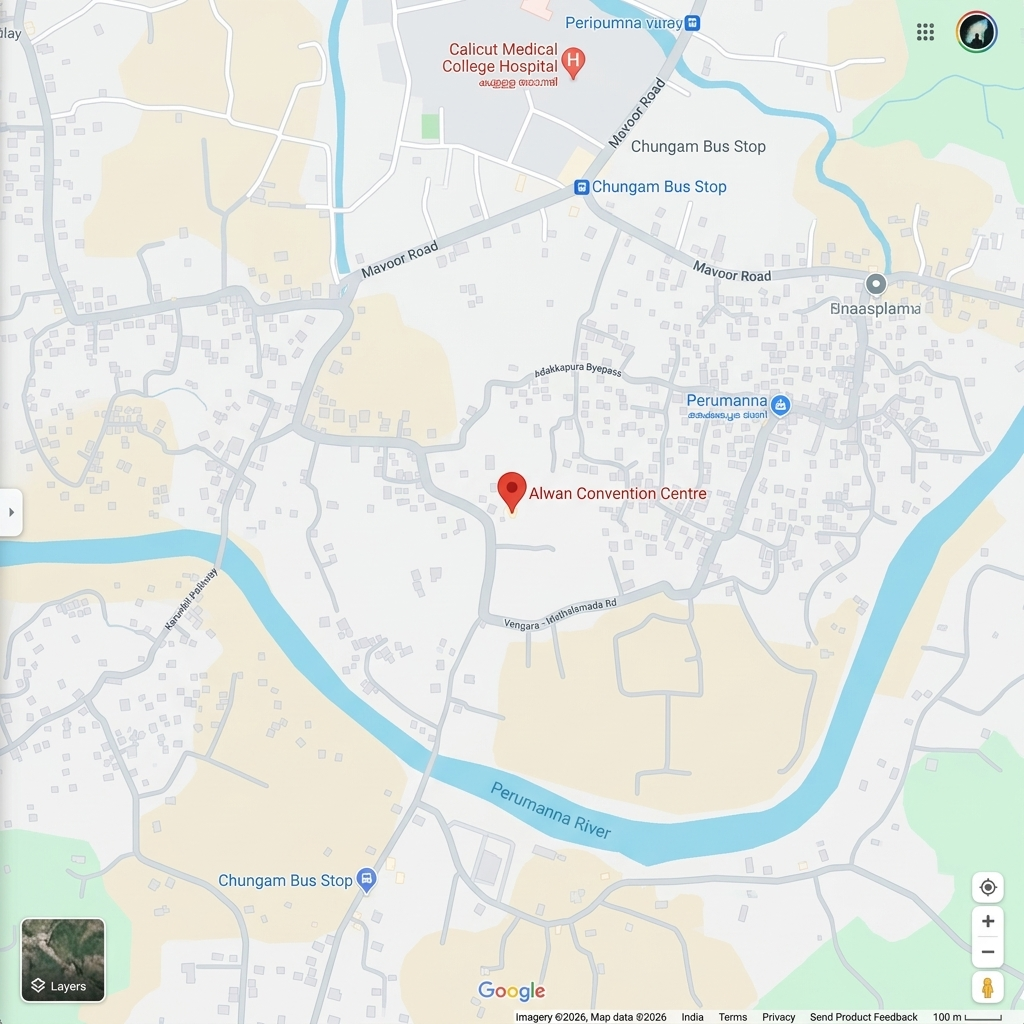
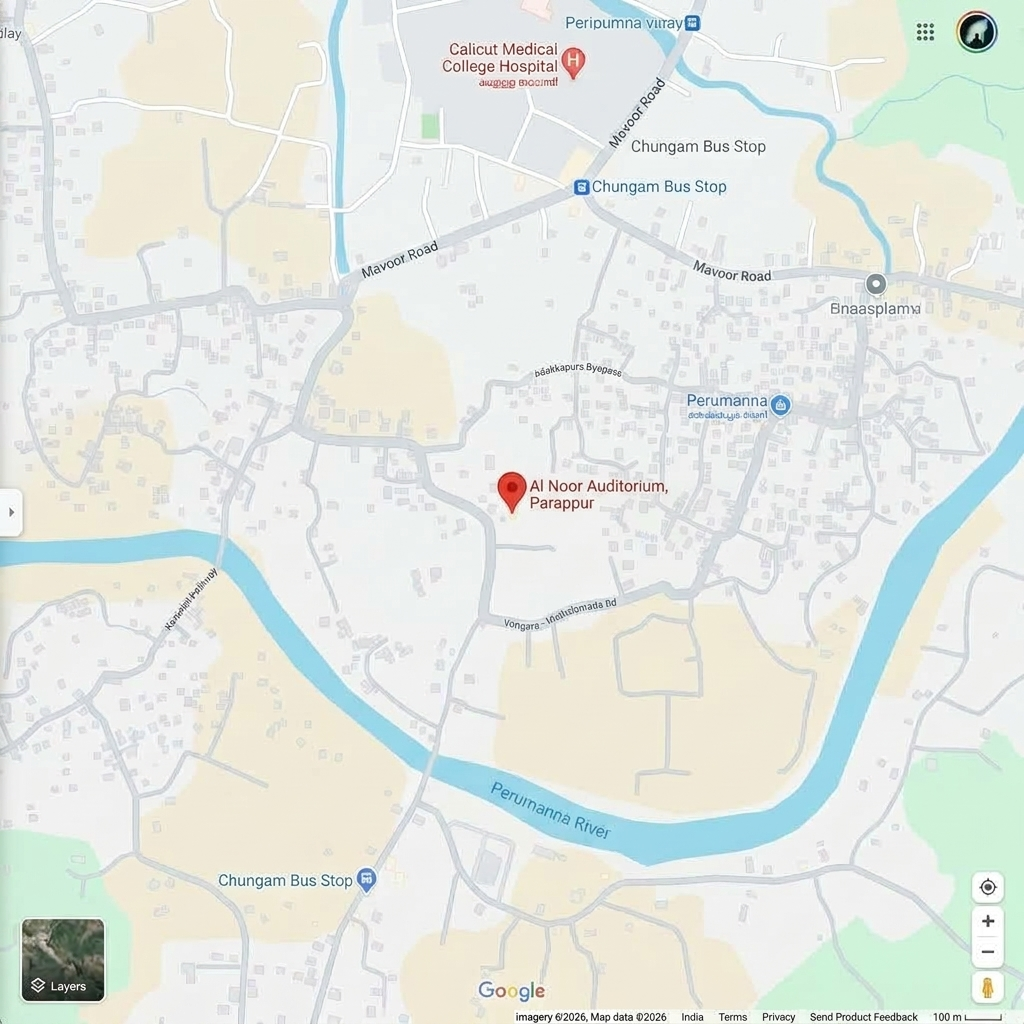
feat: update wedding invitation details and assets for Mohammed Niyas and Fathima Fahma

diff --git a/index.html b/index.html
@@ -19,31 +19,31 @@
        ============================================================ -->
 
   <!-- Page title (also used by OG as fallback) -->
-  <title>Sharafali & Fasna — Wedding Invitation</title>
+  <title>Mohammed Niyas &amp; Fathima Fahma — Wedding Invitation</title>
 
   <!-- Basic SEO description -->
   <meta name="description"
-    content="You are warmly invited to the Wedding of Sharafali &amp; Fasna on Thursday, August 20, 2026. Nikkah: 10:30 AM at Alwan Convention Centre, Perumanna. Wedding Reception: 12:00 PM at PCM Auditorium, Valiyora, Vengara." />
+    content="You are warmly invited to the Nikkah Ceremony of Mohammed Niyas &amp; Fathima Fahma on Thursday, September 17, 2026 at 10:00 AM at Al Noor Auditorium, Parappur, Vengara." />
 
   <!-- ── Open Graph (Facebook, WhatsApp, Telegram, LinkedIn, etc.) ── -->
   <meta property="og:type" content="website" />
   <meta property="og:site_name" content="Wedding Invitation" />
-  <meta property="og:title" content="Sharafali &amp; Fasna — Wedding Invitation" />
+  <meta property="og:title" content="Mohammed Niyas &amp; Fathima Fahma — Wedding Invitation" />
   <meta property="og:description"
-    content="You are warmly invited to the Wedding of Sharafali &amp; Fasna on Thursday, August 20, 2026. Nikkah: 10:30 AM at Alwan Convention Centre, Perumanna. Wedding Reception: 12:00 PM at PCM Auditorium, Valiyora, Vengara." />
+    content="You are warmly invited to the Nikkah Ceremony of Mohammed Niyas &amp; Fathima Fahma on Thursday, September 17, 2026 at 10:00 AM at Al Noor Auditorium, Parappur, Vengara." />
   <meta property="og:url" content="https://swalih-rahman-and-ayisha-adabiyya.vercel.app/" />
-  <meta property="og:image" content="https://swalih-rahman-and-ayisha-adabiyya.vercel.app/blank.png" />
-  <meta property="og:image:type" content="image/png" />
-  <meta property="og:image:width" content="1" />
-  <meta property="og:image:height" content="1" />
+  <meta property="og:image" content="cover.jpeg" />
+  <meta property="og:image:secure_url" content="cover.jpeg" />
+  <meta property="og:image:type" content="image/jpeg" />
+  <meta property="og:image:alt" content="Mohammed Niyas &amp; Fathima Fahma — Wedding Invitation" />
   <meta property="og:locale" content="en_US" />
 
   <!-- ── Twitter / X Card ── -->
-  <meta name="twitter:card" content="summary" />
-  <meta name="twitter:title" content="Sharafali &amp; Fasna — Wedding Invitation" />
+  <meta name="twitter:card" content="summary_large_image" />
+  <meta name="twitter:title" content="Mohammed Niyas &amp; Fathima Fahma — Wedding Invitation" />
   <meta name="twitter:description"
-    content="You are warmly invited to the Wedding of Sharafali &amp; Fasna on Thursday, August 20, 2026. Nikkah: 10:30 AM at Alwan Convention Centre, Perumanna. Wedding Reception: 12:00 PM at PCM Auditorium, Valiyora, Vengara." />
-  <meta name="twitter:image" content="https://swalih-rahman-and-ayisha-adabiyya.vercel.app/blank.png" />
+    content="You are warmly invited to the Nikkah Ceremony of Mohammed Niyas &amp; Fathima Fahma on Thursday, September 17, 2026 at 10:00 AM at Al Noor Auditorium, Parappur, Vengara." />
+  <meta name="twitter:image" content="cover.jpeg" />
 
   <!-- Canonical URL — root, no /index.html -->
   <link rel="canonical" href="https://swalih-rahman-and-ayisha-adabiyya.vercel.app/" />
@@ -518,18 +518,18 @@
       width: 100%;
       height: 100%;
       object-fit: cover;
-      object-position: center 20%;
+      object-position: center 65%;
     }
 
-    /* Dark overlay so text is legible over the photo */
+    /* Subtle overlay so text is legible while image remains crisp and fully visible */
     .hero-bg::after {
       content: '';
       position: absolute;
       inset: 0;
       background: linear-gradient(to bottom,
-          rgba(30, 24, 14, 0.35) 0%,
-          rgba(30, 24, 14, 0.45) 50%,
-          rgba(30, 24, 14, 0.65) 100%);
+          rgba(30, 24, 14, 0.28) 0%,
+          rgba(30, 24, 14, 0.18) 45%,
+          rgba(30, 24, 14, 0.48) 100%);
     }
 
     .hero-content {
@@ -741,22 +741,41 @@
       flex-direction: column;
       align-items: center;
       text-align: center;
-      gap: 1.1rem;
+      gap: 1rem;
     }
 
     .person-img {
-      width: clamp(155px, 32vw, 230px);
-      height: clamp(155px, 32vw, 230px);
+      position: relative;
+      width: clamp(140px, 30vw, 190px);
+      height: clamp(140px, 30vw, 190px);
       border-radius: 50%;
-      overflow: hidden;
-      border: 3px solid var(--gold-light);
-      box-shadow: 0 8px 40px rgba(61, 90, 62, 0.12);
+      display: flex;
+      align-items: center;
+      justify-content: center;
+      background: #FAF7F2;
+      border: 1.5px solid rgba(200, 163, 90, 0.4);
+      box-shadow: 0 4px 20px rgba(81, 19, 12, 0.07);
+      transition: transform 0.4s ease, border-color 0.4s ease, box-shadow 0.4s ease;
     }
 
-    .person-img img {
+    .person-card:hover .person-img {
+      transform: translateY(-4px);
+      border-color: var(--gold);
+      box-shadow: 0 8px 28px rgba(81, 19, 12, 0.12);
+    }
+
+    .emblem-svg {
       width: 100%;
       height: 100%;
-      object-fit: cover;
+      display: block;
+    }
+
+    .emblem-text {
+      font-family: 'Playfair Display', Georgia, serif;
+      font-size: 54px;
+      font-weight: 500;
+      font-style: italic;
+      fill: var(--green);
     }
 
     .person-role {
@@ -1396,13 +1415,13 @@
 
         <!-- Names in Great Vibes — mirrors the hero -->
         <div class="ld-names">
-          Sharafali
+          Mohammed Niyas
           <span class="ld-amp">&</span>
-          Fasna
+          Fathima Fahma
         </div>
 
         <!-- Date — mirrors hero-date -->
-        <p class="ld-date">Nikkah &amp; Wedding &nbsp;·&nbsp; August 20, 2026</p>
+        <p class="ld-date">Nikkah Ceremony &nbsp;·&nbsp; September 17, 2026</p>
 
         <!-- bottom gold bar -->
         <div class="ld-card-bar-btm"></div>
@@ -1449,17 +1468,17 @@
     <!-- ===== HERO — full background image ===== -->
     <section id="hero">
       <div class="hero-bg">
-        <img src="hero.jpg" alt="Sharafali & Fasna" />
+        <img src="hero.jpg" alt="Mohammed Niyas &amp; Fathima Fahma" />
       </div>
 
       <div class="hero-content">
-        <p class="hero-eyebrow">Kindly join us for the Wedding of</p>
+        <p class="hero-eyebrow">Kindly join us for the Nikkah Ceremony of</p>
         <div class="hero-names">
-          Sharafali
+          Mohammed Niyas
           <span class="hero-amp">&</span>
-          Fasna
+          Fathima Fahma
         </div>
-        <p class="hero-date">August 20, 2026 &nbsp;·&nbsp; 10:30 AM</p>
+        <p class="hero-date">September 17, 2026 &nbsp;·&nbsp; 10:00 AM</p>
         <!-- Guest greeting on hero if present -->
         <div id="hero-guest-wrap" style="display: none; margin-top: 1.5rem; text-align: center; animation: heroFadeUp 0.9s cubic-bezier(0.22, 1, 0.36, 1) 1.85s forwards; opacity: 0;">
           <p style="font-size: 0.68rem; letter-spacing: 0.28em; text-transform: uppercase; color: rgba(250, 247, 242, 0.6);">Warm Welcome To</p>
@@ -1536,66 +1555,24 @@
           <!-- GROOM -->
           <div class="person-card reveal">
             <div class="person-img">
-              <svg viewBox="0 0 100 100" class="avatar-svg" aria-label="Groom Avatar" style="width: 100%; height: 100%; display: block; background: var(--ivory-dark);">
-                <defs>
-                  <radialGradient id="groomGrad" cx="50%" cy="40%" r="60%" fx="50%" fy="30%">
-                    <stop offset="0%" stop-color="#FAF7F2" stop-opacity="0.8" />
-                    <stop offset="100%" stop-color="var(--ivory-dark)" />
-                  </radialGradient>
-                </defs>
-                <circle cx="50" cy="50" r="50" fill="url(#groomGrad)" />
-                <circle cx="50" cy="38" r="16" fill="var(--green)" opacity="0.15" />
-                <circle cx="50" cy="38" r="16" fill="none" stroke="var(--green)" stroke-width="1.5" />
-                <path d="M 22 80 C 22 62, 32 56, 50 56 C 68 56, 78 62, 78 80 Z" fill="var(--green)" opacity="0.15" />
-                <path d="M 22 80 C 22 62, 32 56, 50 56 C 68 56, 78 62, 78 80" fill="none" stroke="var(--green)" stroke-width="1.5" />
-                <!-- Mandarin collar (Sherwani) -->
-                <path d="M 42 56 Q 50 60 58 56" fill="none" stroke="var(--gold)" stroke-width="2" stroke-linecap="round" />
-                <path d="M 42 58 L 42 64 Q 50 68 58 64 L 58 58" fill="none" stroke="var(--gold)" stroke-width="1" opacity="0.5" />
-                <!-- Buttons -->
-                <circle cx="50" cy="63" r="1.5" fill="var(--gold)" />
-                <circle cx="50" cy="69" r="1.5" fill="var(--gold)" />
-                <circle cx="50" cy="75" r="1.5" fill="var(--gold)" />
+              <svg viewBox="0 0 120 120" class="emblem-svg" aria-label="Mohammed Niyas - Groom Logo">
+                <circle cx="60" cy="60" r="52" fill="none" stroke="var(--gold-light)" stroke-width="1" opacity="0.55" />
+                <text x="60" y="62" class="emblem-text" text-anchor="middle" dominant-baseline="central">N</text>
               </svg>
             </div>
             <span class="person-role">Groom</span>
-            <h3 class="person-name">Sharafali</h3>
-            <p class="person-lineage">
-              Son of<br />
-              Mr. Abdu Razack &amp; Mrs. Shemeema
-            </p>
+            <h3 class="person-name">Mohammed Niyas</h3>
           </div>
           <!-- BRIDE -->
           <div class="person-card reveal">
             <div class="person-img">
-              <svg viewBox="0 0 100 100" class="avatar-svg" aria-label="Bride Avatar" style="width: 100%; height: 100%; display: block; background: var(--ivory-dark);">
-                <defs>
-                  <radialGradient id="brideGrad" cx="50%" cy="40%" r="60%" fx="50%" fy="30%">
-                    <stop offset="0%" stop-color="#FAF7F2" stop-opacity="0.8" />
-                    <stop offset="100%" stop-color="var(--ivory-dark)" />
-                  </radialGradient>
-                </defs>
-                <circle cx="50" cy="50" r="50" fill="url(#brideGrad)" />
-                <!-- Silhouette draped hijab covering head and shoulders -->
-                <path d="M 50 20 C 37 20, 31 32, 31 46 C 31 59, 21 68, 21 80 C 25 80, 75 80, 79 80 C 79 68, 69 59, 69 46 C 69 32, 63 20, 50 20 Z" fill="var(--green)" opacity="0.15" />
-                <path d="M 50 20 C 37 20, 31 32, 31 46 C 31 59, 21 68, 21 80" fill="none" stroke="var(--green)" stroke-width="1.5" />
-                <path d="M 50 20 C 63 20, 69 32, 69 46 C 69 59, 79 68, 79 80" fill="none" stroke="var(--green)" stroke-width="1.5" />
-                <!-- Gold lace border on headscarf -->
-                <path d="M 33 46 C 35 25, 65 25, 67 46" fill="none" stroke="var(--gold)" stroke-width="2" />
-                <path d="M 31 46 C 33 22, 67 22, 69 46" fill="none" stroke="var(--gold)" stroke-width="1" opacity="0.5" />
-                <!-- Forehead ornament (Maang Tikka) -->
-                <line x1="50" y1="22" x2="50" y2="31" stroke="var(--gold)" stroke-width="1.2" />
-                <circle cx="50" cy="34" r="2" fill="var(--gold)" />
-                <!-- Elegant necklace details -->
-                <path d="M 40 66 C 40 71, 60 71, 60 66" fill="none" stroke="var(--gold)" stroke-width="1.5" stroke-linecap="round" />
-                <path d="M 37 71 C 37 77, 63 77, 63 71" fill="none" stroke="var(--gold)" stroke-width="1" stroke-linecap="round" opacity="0.7" />
+              <svg viewBox="0 0 120 120" class="emblem-svg" aria-label="Fathima Fahma - Bride Logo">
+                <circle cx="60" cy="60" r="52" fill="none" stroke="var(--gold-light)" stroke-width="1" opacity="0.55" />
+                <text x="60" y="62" class="emblem-text" text-anchor="middle" dominant-baseline="central">F</text>
               </svg>
             </div>
             <span class="person-role">Bride</span>
-            <h3 class="person-name">Fasna</h3>
-            <p class="person-lineage">
-              Daughter of<br />
-              Mr. Moideen Kutty &amp; Mrs. Ramla
-            </p>
+            <h3 class="person-name">Fathima Fahma</h3>
           </div>
         </div>
       </div>
@@ -1657,64 +1634,31 @@
         <p class="sec-sub">Join us as we celebrate this cherished occasion.</p>
 
         <!-- EVENTS GRID -->
-        <div class="events-grid">
+        <div class="events-grid" style="display: flex; justify-content: center;">
           
           <!-- NIKKAH CARD -->
-          <div class="event-card reveal">
+          <div class="event-card reveal" style="width: 100%; max-width: 520px;">
             <div class="ev-name">Nikkah</div>
             <div class="ev-rows">
               <div class="ev-row">
                 <span class="ev-icon">&#x1F4C5;</span>
-                <span class="ev-text">Thursday, August 20th, 2026</span>
+                <span class="ev-text">Thursday, September 17th, 2026</span>
               </div>
               <div class="ev-row">
                 <span class="ev-icon">&#x23F0;</span>
-                <span class="ev-text">10:30 AM</span>
+                <span class="ev-text">10:00 AM</span>
               </div>
               <div class="ev-row">
                 <span class="ev-icon">&#x1F3E2;</span>
-                <span class="ev-text">Alwan Convention Centre<br />Perumanna, Mundiyanthara</span>
+                <span class="ev-text">Al Noor Auditorium<br />Parappur, Vengara</span>
               </div>
             </div>
 
             <!-- Venue map photo + Google Maps button -->
             <div class="map-container">
-              <img src="map_nikkah.png" alt="Alwan Convention Centre Perumanna location map" />
+              <img src="map_nikkah.png" alt="Al Noor Auditorium, Parappur, Vengara location map" />
             </div>
-            <a href="https://www.google.com/maps/search/?api=1&query=Alwan+Convention+Centre+Perumanna+Mundiyanthara" target="_blank" rel="noopener noreferrer"
-              class="map-open-btn">
-              <svg width="14" height="14" viewBox="0 0 24 24" fill="none" stroke="currentColor" stroke-width="2.5"
-                stroke-linecap="round" stroke-linejoin="round">
-                <path d="M21 10c0 7-9 13-9 13S3 17 3 10a9 9 0 0 1 18 0z"></path>
-                <circle cx="12" cy="10" r="3"></circle>
-              </svg>
-              Open in Google Maps
-            </a>
-          </div>
-
-          <!-- WEDDING CARD -->
-          <div class="event-card reveal">
-            <div class="ev-name">Wedding</div>
-            <div class="ev-rows">
-              <div class="ev-row">
-                <span class="ev-icon">&#x1F4C5;</span>
-                <span class="ev-text">Thursday, August 20th, 2026</span>
-              </div>
-              <div class="ev-row">
-                <span class="ev-icon">&#x23F0;</span>
-                <span class="ev-text">12:00 PM onwards</span>
-              </div>
-              <div class="ev-row">
-                <span class="ev-icon">&#x1F3E2;</span>
-                <span class="ev-text">PCM Auditorium<br />Valiyora, Vengara</span>
-              </div>
-            </div>
-
-            <!-- Venue map photo + Google Maps button -->
-            <div class="map-container">
-              <img src="map.png" alt="PCM Auditorium Valiyora location map" />
-            </div>
-            <a href="https://maps.app.goo.gl/ybgFfQUQYRGH8dYu7" target="_blank" rel="noopener noreferrer"
+            <a href="https://maps.app.goo.gl/bv2WCnixEk8nkmpN6" target="_blank" rel="noopener noreferrer"
               class="map-open-btn">
               <svg width="14" height="14" viewBox="0 0 24 24" fill="none" stroke="currentColor" stroke-width="2.5"
                 stroke-linecap="round" stroke-linejoin="round">
@@ -1729,7 +1673,7 @@
 
         <!-- scroll arrow → footer -->
         <div class="sec-arrow" style="margin-top:1.2rem;">
-          <a href="footer" aria-label="Scroll to footer">
+          <a href="#footer" aria-label="Scroll to footer">
             <svg width="16" height="16" viewBox="0 0 24 24" fill="none" stroke="currentColor" stroke-width="2.5"
               stroke-linecap="round" stroke-linejoin="round">
               <polyline points="6 9 12 15 18 9"></polyline>
@@ -1742,7 +1686,7 @@
 
     <!-- ===== FOOTER ===== -->
     <footer id="footer">
-      <div class="footer-names">Sharafali & Fasna</div>
+      <div class="footer-names">Mohammed Niyas &amp; Fathima Fahma</div>
       <p class="footer-sub">With Regards From: Families & Friends</p>
       <p class="footer-copy">Made with love & duas &nbsp;✨</p>
     </footer>
@@ -1849,7 +1793,7 @@
       })();
 
       /* — Countdown Timer — */
-      const wedding = new Date('2026-08-20T10:30:00+05:30');
+      const wedding = new Date('2026-09-17T10:00:00+05:30');
       const pad = n => String(n).padStart(2, '0');
       function tick() {
         const diff = wedding - Date.now();

diff --git a/README.md b/README.md
@@ -1,10 +1,10 @@
-# Wedding Invitation - Sharafali & Fasna
+# Wedding Invitation - Mohammed Niyas & Fathima Fahma
 
-A beautiful, single-page wedding invitation website created for Sharafali and Fasna.
+A beautiful, single-page wedding invitation website created for Mohammed Niyas and Fathima Fahma.
 
 ## Features
 *   **Opening welcome screen / loader card**: Gold text design with Arabic Bismillah and an auto-dismiss transition.
 *   **Live Countdown**: Displays remaining days, hours, minutes, and seconds.
 *   **Interactive background music**: Mute/unmute floating toggle button.
 *   **Responsive layout**: Optimized for all desktop and mobile devices.
-*   **Interactive Location Map**: Features a map screenshot of PCM Auditorium Valiyora and a button linking to Google Maps.
+*   **Interactive Location Map**: Features venue details for Al Noor Auditorium, Vengara and a button linking directly to Google Maps.
